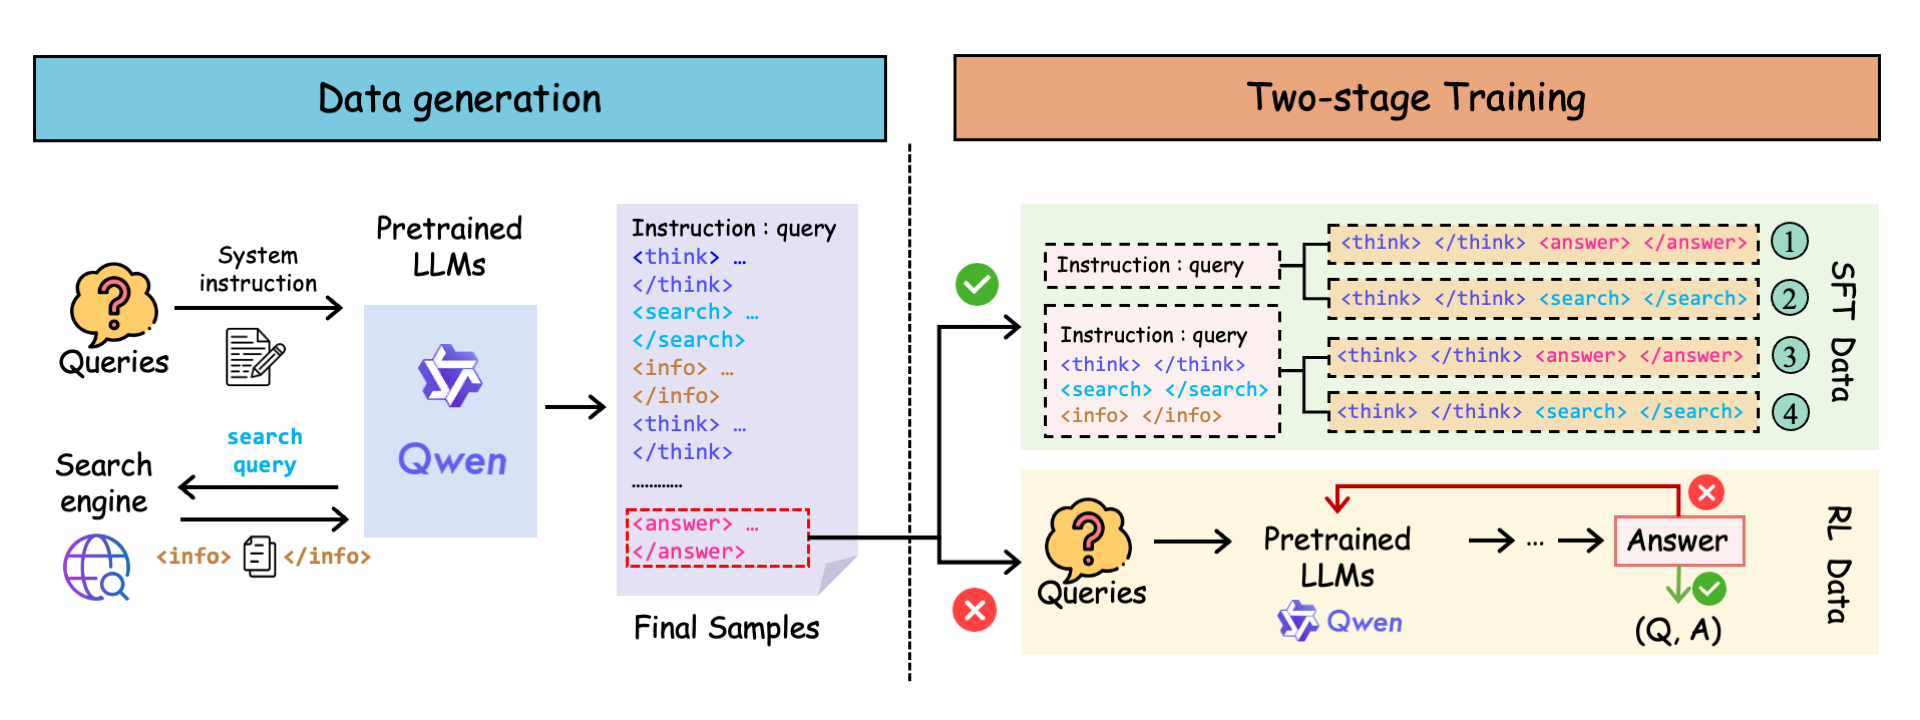
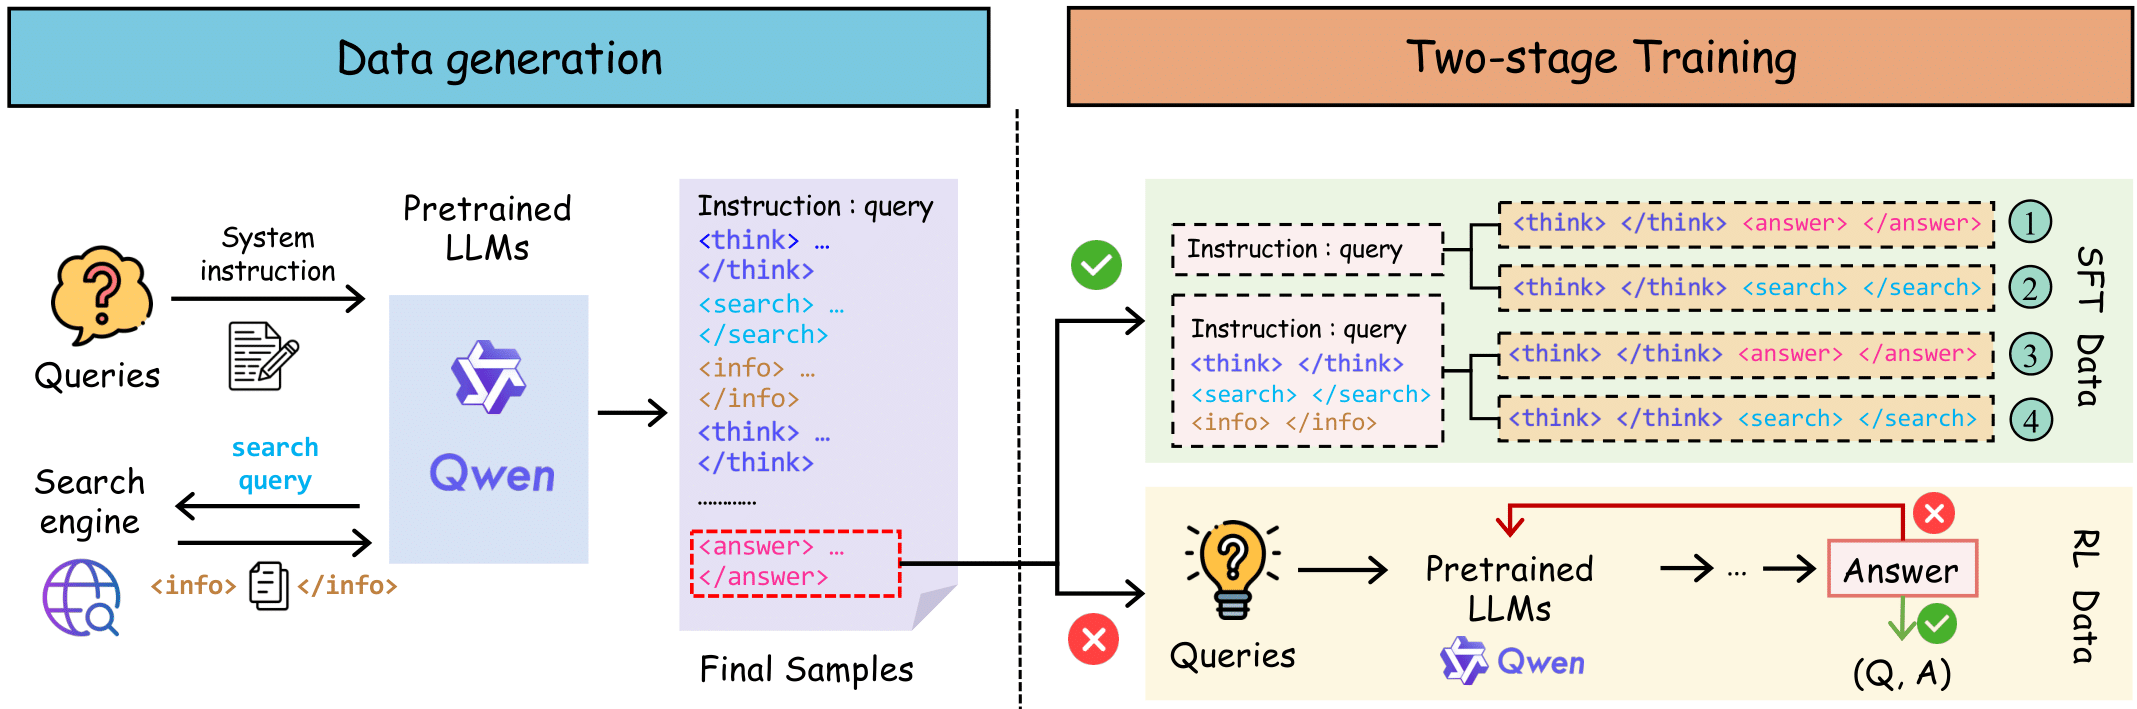
update README.md

diff --git a/README.md b/README.md
@@ -8,7 +8,7 @@ Agentic Learning Powered by <a href="https://github.com/inclusionAI/AWorld"><img
 
 <p align="center">
 <img src="./assets/arxiv.png" width="14px" style="display:inline;"> <a href="https://arxiv.org/abs/2508.13634" target="_blank">arXiv(V2P)</a> ｜
-<img src="./assets/arxiv.png" width="14px" style="display:inline;"> <a href="https://arxiv.org/abs/2507.02962" target="_blank">arXiv(RAG-R1)</a> ｜
+<img src="./assets/arxiv.png" width="14px" style="display:inline;"> <a href="https://arxiv.org/abs/2507.02962v5" target="_blank">arXiv(RAG-R1)</a> ｜
 <img src="./assets/arxiv.png" width="14px" style="display:inline;"> <a href="https://arxiv.org/abs/2505.20192" target="_blank">arXiv(FunReason)</a> ｜
 <img src="./assets/arxiv.png" width="14px" style="display:inline;"> <a href="https://arxiv.org/abs/2510.10197" target="_blank">arXiv(EnvTuning)</a>｜
 <img src="./assets/arxiv.png" width="14px" style="display:inline;"> <a href="https://arxiv.org/abs/2510.24645" target="_blank">arXiv(FunReason-MT)</a>
@@ -59,9 +59,9 @@ Our work focuses on enabling agents to effectively leverage environmental feedba
 **Authors:** Jikai Chen, Long Chen, Dong Wang, Leilei Gan, Chenyi Zhuang, Jinjie Gu  
 [![arXiv](https://img.shields.io/badge/arXiv-2508.13634-b31b1b.svg?logo=arXiv)](https://arxiv.org/abs/2508.13634) [![Paper](https://img.shields.io/badge/Hugging%20Face-Paper-yellow?logo=huggingface)](https://huggingface.co/papers/2508.13634) [![Model](https://img.shields.io/badge/Hugging%20Face-Model-yellow?logo=huggingface)](https://huggingface.co/inclusionAI/V2P-7B)
 
-**[RAG-R1: Incentivize the Search and Reasoning Capabilities of LLMs through Multi-query Parallelism](./RAG-R1)**  
+**[RAG-R1: Incentivizing the Search and Reasoning Capabilities of LLMs Through Multi-query Parallelism](./RAG-R1)**  
 **Authors:** Zhiwen Tan, Jiaming Huang, Qintong Wu, Hongxuan Zhang, Chenyi Zhuang, Jinjie Gu  
-[![arXiv](https://img.shields.io/badge/arXiv-2507.02962-b31b1b.svg?logo=arXiv)](https://arxiv.org/abs/2507.02962) [![Model](https://img.shields.io/badge/Hugging%20Face-Paper-yellow?logo=huggingface)](https://huggingface.co/papers/2507.02962)
+[![arXiv](https://img.shields.io/badge/arXiv-2507.02962-b31b1b.svg?logo=arXiv)](https://arxiv.org/abs/2507.02962v5) [![Model](https://img.shields.io/badge/Hugging%20Face-Paper-yellow?logo=huggingface)](https://huggingface.co/papers/2507.02962)
 
 **[FunReason: Enhancing Large Language Models' Function Calling via Self-Refinement Multiscale Loss and Automated Data Refinement](https://github.com/BingguangHao/FunReason/)**  
 **Authors:** Bingguang Hao, Maolin Wang, Zengzhuang Xu, Cunyin Peng, Yicheng Chen, Xiangyu Zhao, Jinjie Gu, Chenyi Zhuang  
